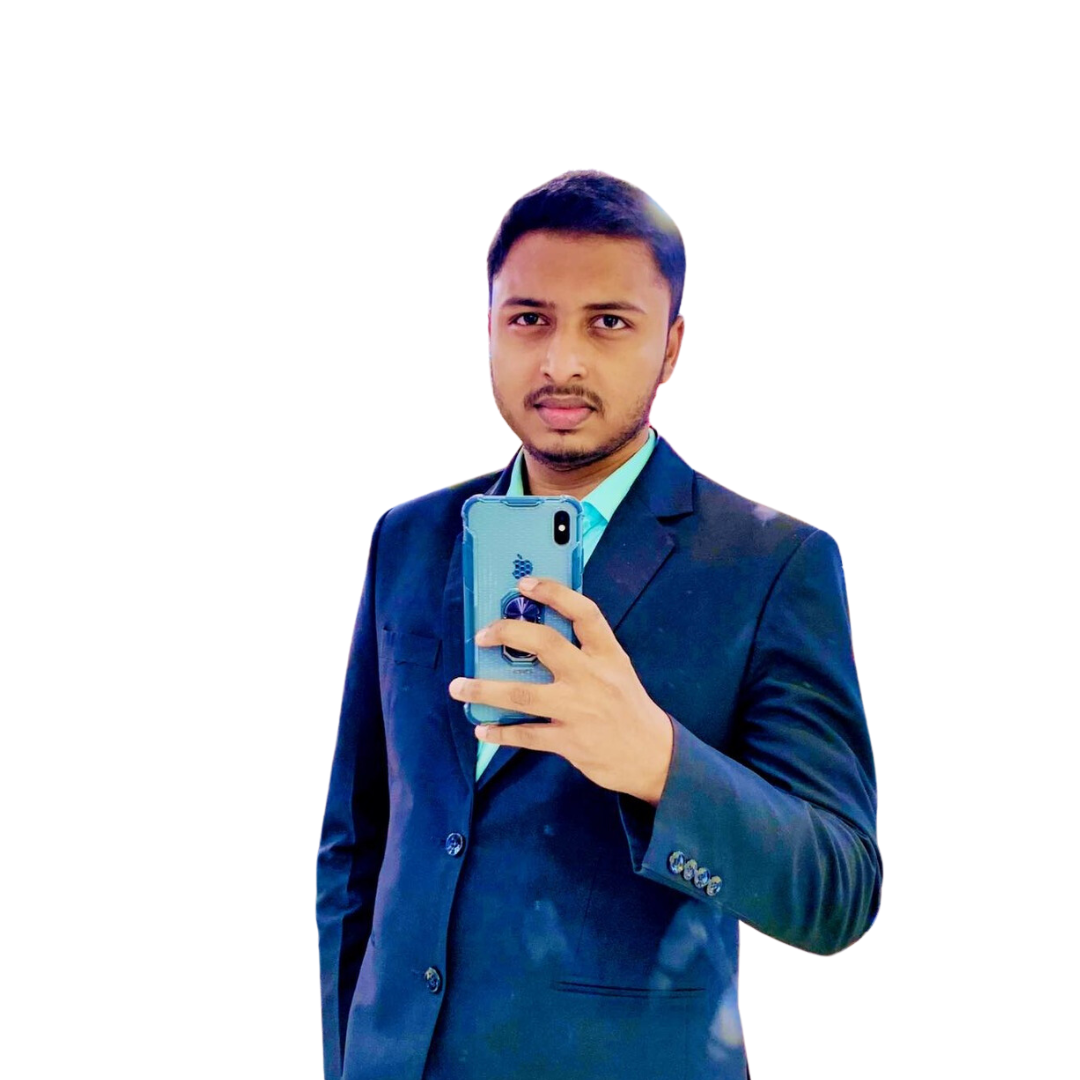
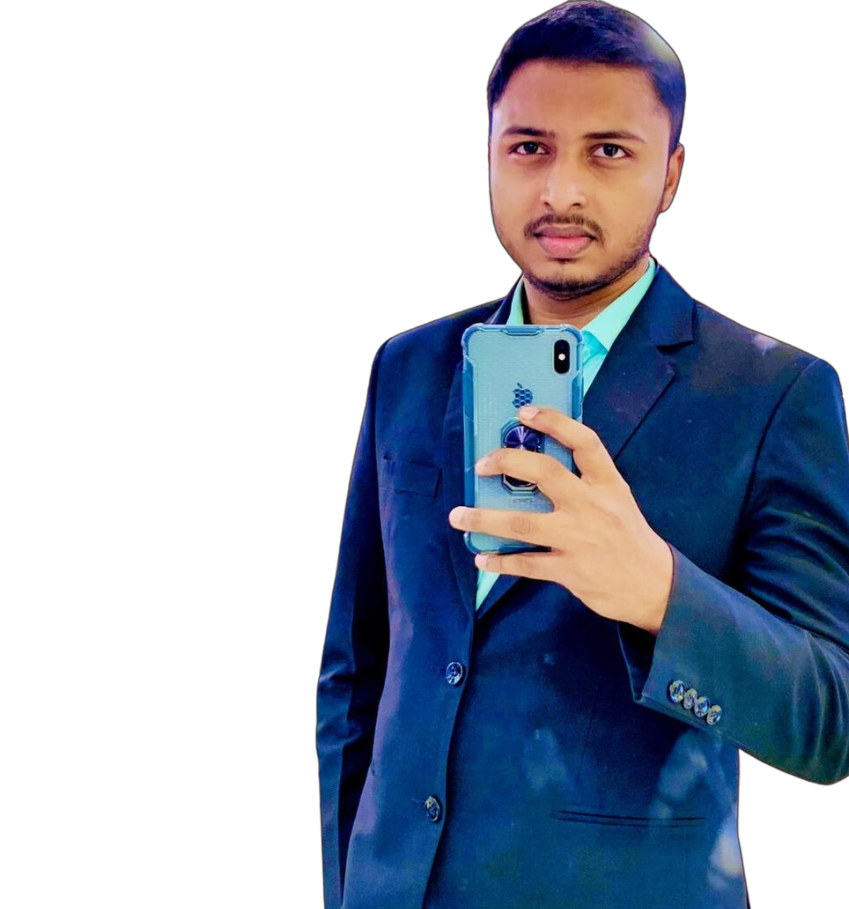
first commit

diff --git a/assets/css/style.css b/assets/css/style.css
@@ -241,7 +241,7 @@ h6 {
 #hero {
   width: 100%;
   height: 100vh;
-  background: url("../img/2023_09_02_14_16_IMG_5335.JPG") center;
+  background: url("../img/emon2.jpg")top center;
   background-size: cover;
 }
 
